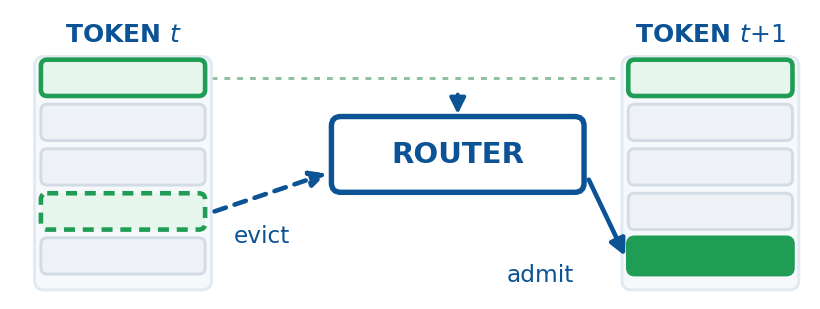
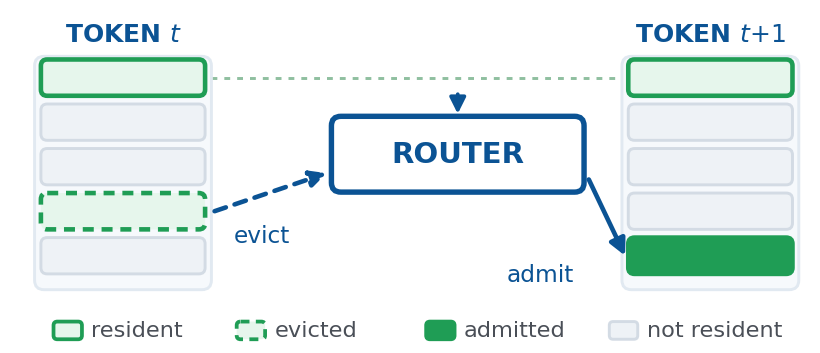
swap diagram: colour key along the bottom; paper bumped

diff --git a/analysis/residency/swap_diagram.py b/analysis/residency/swap_diagram.py
@@ -6,10 +6,11 @@ carries a vector figure from a committed producer rather than a raster lifted fr
 the slides. Two changes against the slide version, both driven by the paper's page
 budget rather than taste:
 
-  * a key, since the slide relied on the speaker to explain that a light green fill
-    means resident, a dashed border means leaving, and a solid fill means arriving;
-  * no key. At half a column wide there is no room for one, and the caption can
-    carry what the colours mean in a clause.
+  * a key along the bottom, since the slide relied on the speaker to explain that a
+    light green fill means resident, a dashed border means leaving, a solid fill
+    means arriving, and grey means not resident (a reviewer read the colours as
+    "two experts active" without it);
+  * a fixed pool of five slots, small enough to read at half a column.
 
 Sized so its natural width is about half the text column, which means LaTeX places
 it without downscaling and the font sizes set below are the sizes that print.
@@ -73,7 +74,7 @@ def arrow(ax, a, b, dashed=False, lw=1.1):
 
 
 def draw():
-    W, H = 258.0, 96.0
+    W, H = 258.0, 110.0
     fig, ax = plt.subplots(figsize=(W / 95, H / 95))
     ax.set_xlim(0, W)
     ax.set_ylim(H, 0)                    # SVG-style: y grows downward
@@ -118,6 +119,17 @@ def draw():
     ax.text(170, slot_mid(ADMITTED) + 6, "admit", ha="center", va="center",
             fontsize=5.6, color=BLUE)
 
+
+    # key: one swatch per colour, spread along the bottom edge
+    ky, kw, kh = 101.0, 9.0, 5.6
+    for x, label, fill, edge, dashed in ((16, "resident", GREEN_FILL, GREEN, False),
+                                         (74, "evicted", GREEN_FILL, GREEN, True),
+                                         (134, "admitted", GREEN, GREEN, False),
+                                         (192, "not resident", GREY_FILL, GREY_EDGE, False)):
+        box(ax, x, ky, kw, kh, fill, edge, 0.9 if fill != GREY_FILL else 0.7, dashed=dashed,
+            r=1.2)
+        ax.text(x + kw + 3, ky + kh / 2, label, ha="left", va="center", fontsize=5.4,
+                color=INK)
 
     fig.subplots_adjust(left=0, right=1, top=1, bottom=0)
     for ext in ("pdf", "png"):
